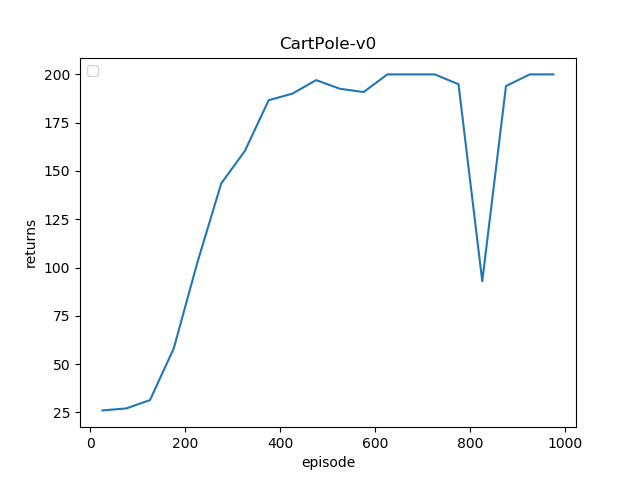
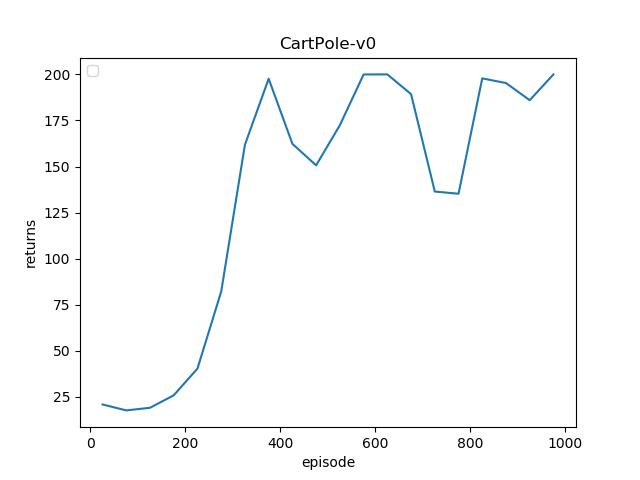
fix replay buffer bug and get actual rainbow results

diff --git a/all/presets/rainbow/classic_control/__init__.py b/all/presets/rainbow/classic_control/__init__.py
@@ -5,7 +5,7 @@ from torch.nn.functional import mse_loss
 from all.agents import DQN
 from all.approximation import QNetwork
 from all.layers import Dueling, Flatten
-from all.memory import PrioritizedReplayBuffer
+from all.memory import PrioritizedReplayBuffer, ExperienceReplayBuffer
 from all.policies import GreedyPolicy
 
 def dueling_fc_net(env, frames=1):
@@ -26,17 +26,24 @@ def dueling_fc_net(env, frames=1):
     )
 
 def rainbow_cc(
+        # Vanilla DQN
         minibatch_size=32,
         replay_buffer_size=20000,
-        target_update_frequency=1000,
         discount_factor=0.99,
         update_frequency=1,
         lr=1e-4,
+        replay_start_size=32 * 8,
+        build_model=dueling_fc_net,
+        # Exploration Schedule
         initial_exploration=1.00,
         final_exploration=0.02,
         final_exploration_frame=10000,
-        replay_start_size=32 * 8,
-        build_model=dueling_fc_net
+        # Double Q-Learning
+        target_update_frequency=1000,
+        # Prioritized Replay
+        alpha=0.2,  # priority scaling
+        beta=0.4,  # importance sampling adjustment
+        final_beta_frame=50000,
 ):
     '''
     Partial implementation of the Rainbow variant of DQN, scaled for classic control environments.
@@ -63,7 +70,13 @@ def rainbow_cc(
             final_epsilon=final_exploration,
             annealing_time=final_exploration_frame
         )
-        replay_buffer = PrioritizedReplayBuffer(replay_buffer_size)
+        # replay_buffer = ExperienceReplayBuffer(replay_buffer_size)
+        replay_buffer = PrioritizedReplayBuffer(
+            replay_buffer_size,
+            alpha=alpha,
+            beta=beta,
+            final_beta_frame=final_beta_frame
+        )
         return DQN(q, policy, replay_buffer,
                    discount_factor=discount_factor,
                    replay_start_size=replay_start_size,

diff --git a/all/memory/replay_buffer.py b/all/memory/replay_buffer.py
@@ -42,7 +42,7 @@ class ExperienceReplayBuffer(ReplayBuffer):
             self.buffer.append(sample)
         else:
             self.buffer[self.pos] = sample
-            self.pos = (self.pos + 1) % self.capacity
+        self.pos = (self.pos + 1) % self.capacity
 
     def _reshape(sefl, minibatch, weights):
         states = [sample[0] for sample in minibatch]
@@ -64,11 +64,11 @@ class PrioritizedReplayBuffer(ExperienceReplayBuffer):
             alpha=0.6,
             beta=0.4,
             final_beta_frame=100000,
-            epsilon=0.1
+            epsilon=1e-5
     ):
         super().__init__(buffer_size)
 
-        assert alpha > 0
+        assert alpha >= 0
         self._alpha = alpha
 
         it_capacity = 1
@@ -83,6 +83,9 @@ class PrioritizedReplayBuffer(ExperienceReplayBuffer):
         self._epsilon = epsilon
         self._frames = 0
         self._cache = None
+
+    def store(self, states, action, next_states, reward):
+        self._add((states, action, next_states, reward))
 
     def sample(self, batch_size):
         beta = min(1.0, self._beta + self._frames
